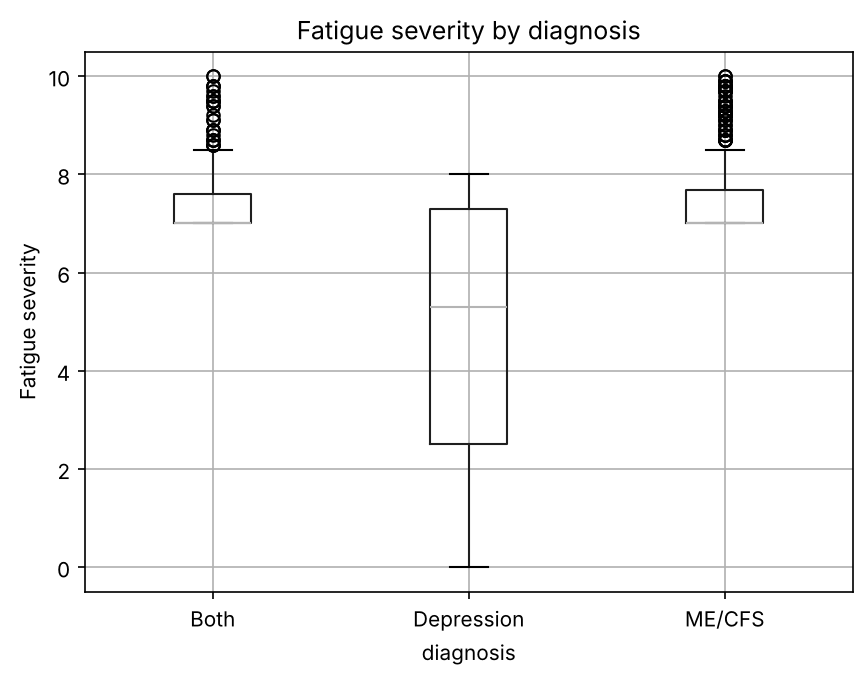
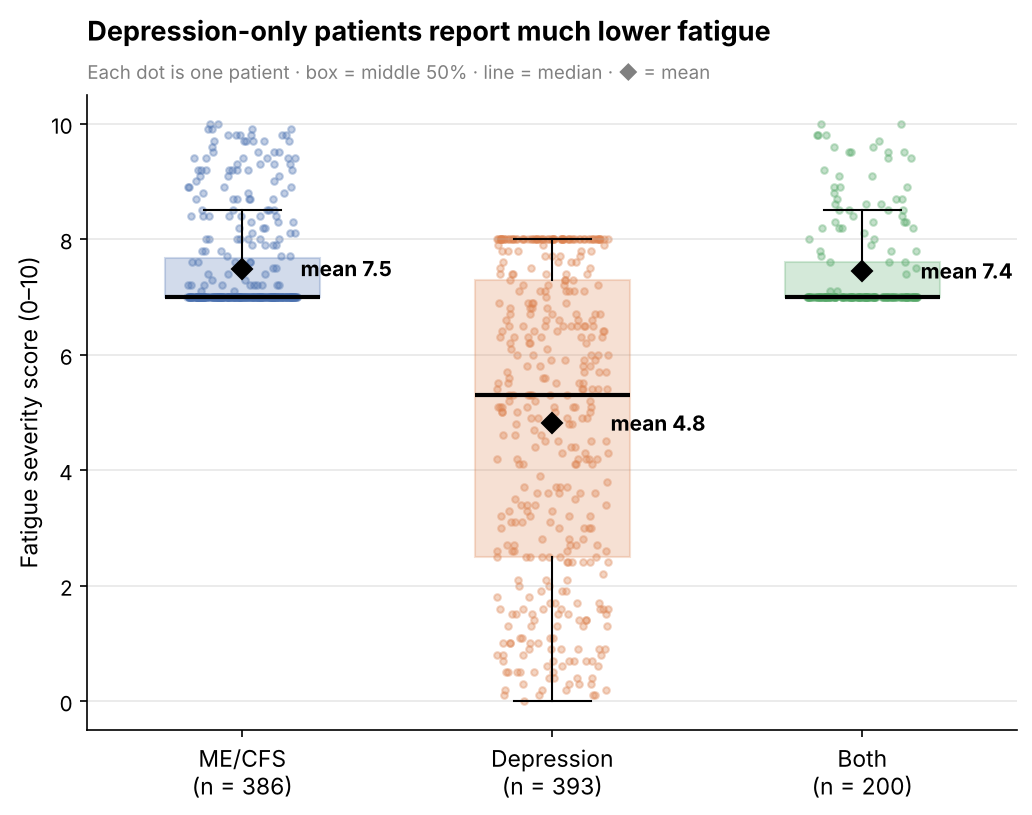
Redesign fatigue-by-diagnosis chart for readability
Claude-Session: https://claude.ai/code/session_01JtpdDNifgmUwJaY3PVcA7L

diff --git a/README.md b/README.md
@@ -13,7 +13,7 @@ A Python data analysis project testing whether depression severity is linked to 
 |---|---|---|
 | ME/CFS | 7.4 | 7.5 |
 | Depression | 15.0 | 4.8 |
-| Both | 16.4 | 7.5 |
+| Both | 16.4 | 7.4 |
 
 - Together, the two scores clearly separate the three diagnosis groups, which makes them strong candidate features for a classification model.
 - **Data quality flag:** dense bands at PHQ-9 ≈ 9–10 and fatigue = 7 in the scatter plot suggest imputed or default values.
